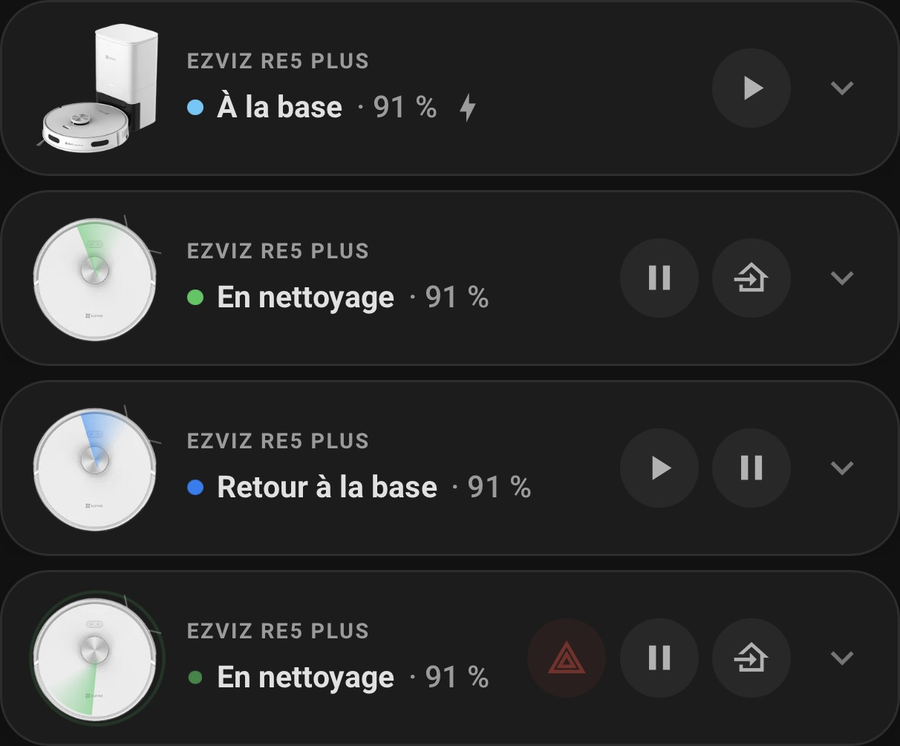
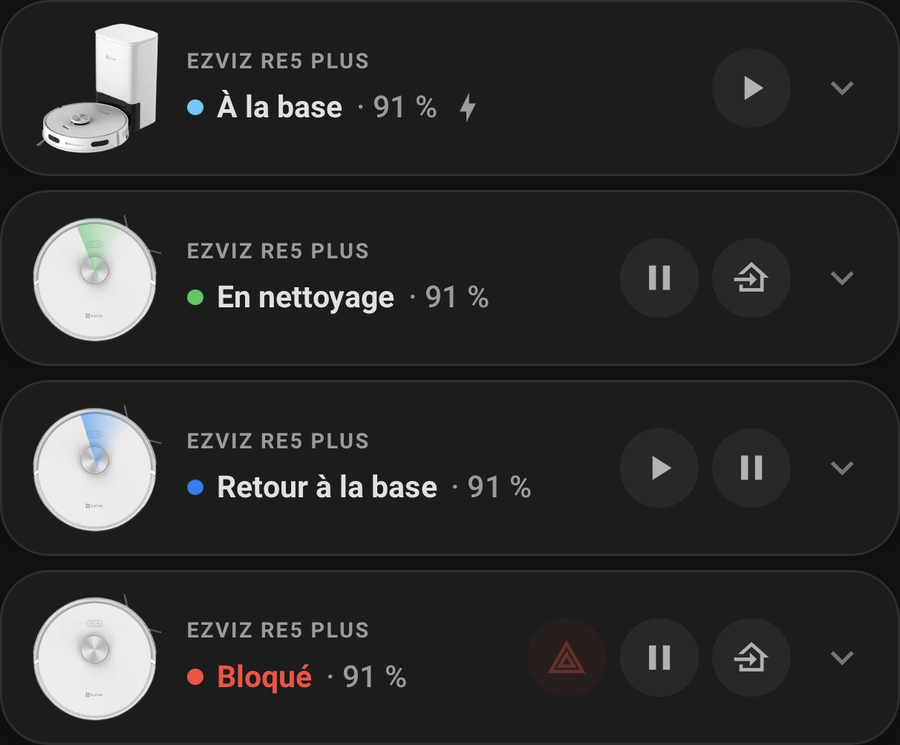
Remplacer la capture de l'etat bloque
L'ancienne datait d'avant : le triangle etait la, mais le libelle disait
encore « En nettoyage ». Elle montrait donc precisement la contradiction
qu'on a corrigee depuis. La nouvelle montre « Bloque » en rouge, animations
arretees, comme la carte se comporte aujourd'hui.

diff --git a/README.md b/README.md
@@ -52,7 +52,12 @@ La puissance d'aspiration est exposée en **lecture seule** (capteur
 
 Seules les commandes utiles ici et maintenant sont affichées : « Démarrer »
 disparaît en nettoyage, « Pause » et « Retour à la base » quand il est
-arrimé. Le triangle rouge, lui, n'apparaît que si le robot s'immobilise.
+arrimé.
+
+Coincé, la carte passe **en entier** en alerte — « Bloqué » en rouge,
+animations arrêtées, triangle de détresse clignotant. Le robot, lui,
+continue souvent d'annoncer qu'il nettoie : c'est le propre de la panne, il
+ne sait pas qu'il ne va nulle part.
 
 ## Le bouton de dépannage
 
